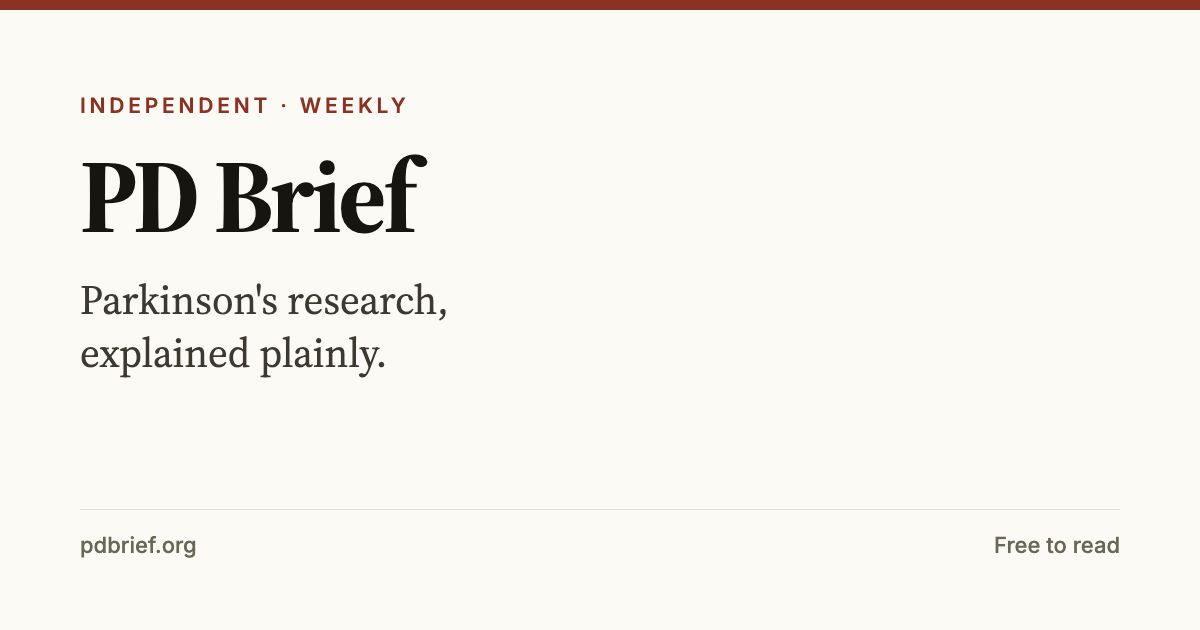
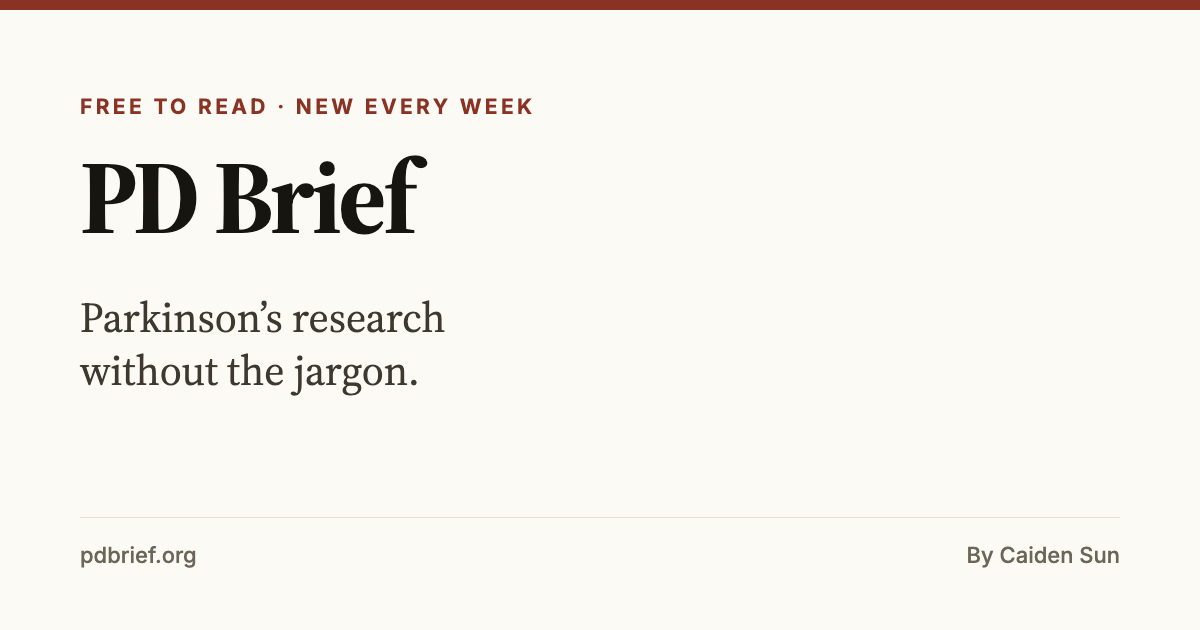
Rewrite site copy that read as machine-written
Homepage headline and introduction, footer, closing note, Ask page,
archive, glossary and 404 introductions, the About sections Caiden has
not rewritten, the study-reading guide, four glossary entries
and the clearest remaining patterns in the three issues. The social
preview image is regenerated to match the new headline.

Caiden's own About text, the Topics and Sources introductions are
unchanged.

diff --git a/content/issues/2026-08-30-exenatide-phase-3-result.md b/content/issues/2026-08-30-exenatide-phase-3-result.md
@@ -20,7 +20,7 @@ Last week's issue covered a French trial in which a diabetes drug appeared to ho
 That trial found nothing. And in May this year, the paper reporting it was placed under formal review.
 
 :::key
-In a {{phase 3 trial}} of 194 people followed for almost two years, weekly exenatide made no difference to Parkinson's symptoms compared with placebo. Separately, in May 2026 *The Lancet* attached an {{expression of concern}} to the paper after regulators inspecting one of the six hospitals found serious problems with how trials there were run. The finding and the flag are two different things, and both are worth understanding.
+In a {{phase 3 trial}} of 194 people followed for almost two years, weekly exenatide made no difference to Parkinson's symptoms compared with placebo. Separately, in May 2026 *The Lancet* attached an {{expression of concern}} to the paper after regulators inspecting one of the six hospitals found serious problems with how trials there were run. The trial result and the journal's warning are separate stories, and this issue covers both.
 :::
 
 ## The hope that led here
@@ -29,7 +29,7 @@ Exenatide had one of the better stories in Parkinson's research.
 
 A {{phase 2 trial}} published in 2017 followed about 60 people for 48 weeks and found that those on exenatide were, on average, around 4 points better on the motor scale than those on placebo. The gap also persisted 12 weeks after everyone stopped the drug. For a field that had watched candidate after candidate fail, this was a real result, and it drove a decade of follow-on work.
 
-It was still a small trial. That is what {{phase 2 trial|phase 2}} means: a signal worth chasing, not a conclusion. Chasing it properly is exactly what this new trial did.
+It was still a small trial, though, and {{phase 2 trial|phase 2}} results are meant to be followed up with bigger ones. That's what this new trial set out to do.
 
 ## What they did
 
@@ -78,7 +78,7 @@ A hypothesis that had run for a decade finally got a proper test. Negative resul
 
 The 2017 trial was not fraudulent, and the people who ran it were not careless. It was simply small. Small trials produce unstable estimates, and chance, a strong {{placebo}} response and the excitement around an early positive result can push a number far enough to look real. Then a bigger trial arrives and it is gone. This happens constantly, in every corner of medicine.
 
-The last part is the one almost nobody writes about. An inspection turned up problems. A journal attached a warning. An investigation is running, and whatever it finds will be published. It is slow and it is unglamorous, and the rest of this story makes no sense without it.
+The journal's side of this rarely gets written about. An inspection found problems, the journal attached a warning, and an investigation is now running whose findings will be published. It's slow, unglamorous work, and it's how mistakes in published research get caught.
 
 ## Reading the two trials together
 
@@ -94,21 +94,21 @@ Nobody yet knows which trial is closer to the truth, and there is more than one 
 
 It may be that assessing people on their usual medication, as the French trial did, is more forgiving, capturing a modest symptomatic effect rather than true disease modification. It may be that 12 months is short enough for a small early difference to appear and 96 weeks long enough for it to wash out. It may be that the two drugs genuinely differ in how much reaches the brain. Or the French result may simply have been a false positive, of the same kind the 2017 exenatide trial now appears to have been.
 
-Until the investigation into the exenatide paper concludes, there is one more possibility that cannot be dismissed: that the negative result is itself unreliable. It is unlikely: one site out of six, in a trial whose result was resoundingly flat. But "unlikely" is not "ruled out".
+Until the investigation into the exenatide paper concludes, there is one more possibility that cannot be dismissed: that the negative result is itself unreliable. That seems unlikely, since only one of the six sites is in question and the result was very flat, but it can't be ruled out yet.
 
 ## What this doesn't tell us
 
 Whether the exenatide result stands depends on an investigation that has not reported yet. If a large share of the data came from the site under question, the whole analysis may need redoing.
 
-It also tells us nothing about GLP-1 drugs as a class. Two drugs, two trials, two opposite answers is not a body of evidence, and anyone declaring the class dead is getting ahead of the data.
+It also tells us nothing about GLP-1 drugs as a class. Two trials of two different drugs that disagree don't add up to much evidence either way, and anyone writing off the whole class is getting ahead of the data.
 
 And it says nothing about giving either drug earlier. Both trials recruited people who already had a diagnosis, and by that stage a great deal of the damage has already been done.
 
 ## What to watch next
 
-The investigation's outcome. *The Lancet* will publish it, and it will either lift the notice, correct the paper, or retract it. That is the single most consequential thing pending in this story.
+The investigation's outcome. *The Lancet* will publish it, and it will either lift the notice, correct the paper, or retract it. That's the biggest open question in this story.
 
-Whether the lixisenatide finding replicates in a larger trial. That is now the decisive question for this line of research.
+Whether the lixisenatide finding replicates in a larger trial. That will decide where this line of research goes.
 
 And whether trial design shifts earlier. The argument that treatments must start before diagnosis, in the {{prodromal}} stage identified by tests like the {{seed amplification assay}} we covered two weeks ago, gets stronger every time a trial in diagnosed patients comes back empty.
 

diff --git a/content/issues/2026-08-16-spinal-fluid-test-parkinsons.md b/content/issues/2026-08-16-spinal-fluid-test-parkinsons.md
@@ -3,7 +3,7 @@
 title: "A spinal fluid test that spots Parkinson's before diagnosis"
 date: "2026-08-16"
 slug: "spinal-fluid-test-parkinsons"
-summary: "A test that detects misfolded alpha-synuclein in spinal fluid identified Parkinson's in 88% of people who had it, and was positive in most people who had warning signs but no diagnosis. It is the closest the field has come to a biological test for the disease."
+summary: "A test that detects misfolded alpha-synuclein in spinal fluid identified Parkinson's in 88% of people who had it, and was positive in most people who had warning signs but no diagnosis. It's the closest anyone has come to a biological test for the disease."
 topics: [Biomarkers, Diagnosis, Early Detection]
 papers:
   - title: "Assessment of heterogeneity among participants in the Parkinson's Progression Markers Initiative cohort using alpha-synuclein seed amplification: a cross-sectional study"
@@ -14,7 +14,7 @@ papers:
     access: "Free abstract"
 ---
 
-For sixty years, diagnosing {{Parkinson's disease|Parkinson's}} has come down to a doctor watching how you move. There is no blood test. There is no scan that settles it. A neurologist takes a history, examines you, watches how you respond to medication and makes a judgement. In a meaningful share of cases that judgement turns out to be wrong.
+For sixty years, diagnosing {{Parkinson's disease|Parkinson's}} has come down to a doctor watching how you move. There's no blood test for it, and no scan that settles the question. A neurologist takes a history, examines you, watches how you respond to medication and makes a judgement. In a meaningful share of cases that judgement turns out to be wrong.
 
 This study is a serious attempt to change that. Researchers ran a laboratory test on {{cerebrospinal fluid}} from more than a thousand people and asked a simple question: can we detect the disease itself, rather than the symptoms it causes?
 
@@ -26,7 +26,7 @@ The test correctly identified 87.7% of people already diagnosed with Parkinson's
 
 In most people with Parkinson's, nerve cells fill with clumps of a misfolded protein called {{alpha-synuclein}}. Until recently, the only way to confirm those clumps were present was to examine the brain after death.
 
-A newer laboratory technique, the {{seed amplification assay}}, offers a way around that. If you took a PCR test during COVID, the idea is similar. You take a sample of a person's spinal fluid, add a supply of normal alpha-synuclein protein, and wait. If even a trace of the misfolded form is present in the sample, it acts as a seed: it converts the added protein into the same wrong shape, over and over, until the clumping becomes detectable by an instrument. A tiny signal is amplified into an unmistakable one.
+A newer laboratory technique, the {{seed amplification assay}}, offers a way around that. If you took a PCR test during COVID, the idea is similar. You take a sample of a person's spinal fluid, add a supply of normal alpha-synuclein protein, and wait. If even a trace of the misfolded form is present in the sample, it acts as a seed: it converts the added protein into the same wrong shape, over and over, until there's enough clumping for an instrument to detect.
 
 The question was whether this worked reliably enough, in enough people, to be useful.
 
@@ -78,7 +78,7 @@ This is not yet a test you can ask for at a routine appointment, and it requires
 
 ## What this doesn't tell us
 
-This was a {{cohort study}} carried out at a single point in time, not a trial. Several limits are worth holding onto.
+This was a {{cohort study}} carried out at a single point in time, not a trial, and that comes with limits.
 
 It does not measure severity or predict speed. A positive result says misfolded protein is present. It does not say how fast anyone will progress, or how badly they will be affected.
 
@@ -90,13 +90,11 @@ Finally, nobody has shown it works outside a research setting yet. The people ru
 
 ## What to watch next
 
-Three threads are worth following.
+Keep an eye on the move away from lumbar punctures. Groups are working on versions of this assay that read skin biopsies, blood, and nasal swabs. A blood-based version would change the picture entirely.
 
-The first is the move away from lumbar punctures. Groups are working on versions of this assay that read skin biopsies, blood, and nasal swabs. A blood-based version would change the picture entirely.
+Then there's the follow-up. The prodromal participants who tested positive are being tracked. What happens to them over the next five to ten years is the real test of whether this predicts anything.
 
-The second is longitudinal follow-up. The prodromal participants who tested positive are being tracked. What happens to them over the next five to ten years is the real test of whether this predicts anything.
-
-The third is how trials adapt. Expect new studies that require a positive assay to enrol, and expect some earlier failed trials to be reconsidered in light of who was actually in them.
+Finally, watch how trials change. Expect new studies that require a positive assay to enrol, and expect some earlier failed trials to be reconsidered in light of who was actually in them.
 
 :::plain
 A laboratory test can now detect the protein damage behind Parkinson's in a sample of spinal fluid, including in people who have not yet been diagnosed. It does not treat anything, and it is not part of routine care. But finding the disease early is the thing every future treatment will depend on, and this is the first real step towards it.

diff --git a/content/pages/about.md b/content/pages/about.md
@@ -24,37 +24,26 @@ I'm not a doctor or a researcher. Each issue links to the paper it's based on, s
 
 ## Who this is for
 
-Anyone who wants to follow Parkinson's research without a medical degree:
-
-- **People living with Parkinson's**, who have a direct stake in where the research is going
-- **Family members and caregivers**, who often end up doing the reading
-- **Students and early researchers** looking for a way into an unfamiliar literature
-- **Clinicians and allied health professionals** who want a quick orientation outside their specialty
-- **Anyone curious** about how medical knowledge actually accumulates
+PD Brief is for anyone who wants to follow Parkinson's research without a medical degree. That includes people living with Parkinson's, and the family members and caregivers who often end up doing the reading for them. It's also for students who are curious about the field and don't know where to start.
 
 ## How studies are chosen
 
-There are far more Parkinson's papers published each week than could be covered. Selection favours studies that:
+Far more Parkinson's papers come out each week than we could ever cover, so we look for studies that report something new, come from peer-reviewed journals, and are big or careful enough that the result is likely to hold up. If we ever write about a preprint, a paper that hasn't been peer reviewed yet, we'll say so clearly.
 
-- report an original finding rather than restating existing knowledge
-- come from peer-reviewed journals, with preprints clearly labelled when included
-- would genuinely change how someone understands the field
-- are large or rigorous enough that the finding is likely to hold
-
-Negative results are covered deliberately. A well-run trial showing that a promising treatment does not work is as important as one showing that it does, and it is far less likely to be reported anywhere else.
+We also cover trials that didn't work. A well-run trial showing that a promising treatment fails is just as useful as one showing that it succeeds, and it gets far less attention.
 
 ## Editorial policy {#policy}
 
-**Independence.** PD Brief is not affiliated with any journal, university, pharmaceutical company, patient organisation, or funder. Nobody pays for coverage. Nobody sees an issue before it is published.
+**Independence.** PD Brief isn't affiliated with any journal, university, drug company, patient organisation or funder, and nobody pays for coverage.
 
-**Honesty about uncertainty.** Most research findings are provisional. Issues say how confident anyone should be, and every issue includes a section on what the study does not establish.
+**Honesty about uncertainty.** Most research findings are provisional. Every issue says how much weight a result can bear and has a section on what the study doesn't show.
 
-**No medical advice.** PD Brief explains research. It does not recommend treatments, and nothing in it should be used to make decisions about anyone's care. Those conversations belong with your neurologist.
+**No medical advice.** PD Brief explains research. It doesn't recommend treatments, and nothing here should be used to make decisions about anyone's care. Those conversations belong with your neurologist.
 
-**Corrections.** Mistakes will happen. When one is found, the issue is corrected and the correction is noted at the bottom of that issue rather than edited away without a word.
+**Corrections.** Mistakes will happen. When we find one, we fix it and add a note at the bottom of the issue saying what changed.
 
-**Credit.** Every issue links to the original paper, with authors, journal, and DOI. The findings belong to the researchers who did the work. This publication only translates them.
+**Credit.** Every issue links to the original paper, with its authors, journal and DOI. The findings belong to the researchers who did the work.
 
 ## Get in touch
 
-Corrections, questions, and suggestions for studies to cover are all welcome. The quickest way to reach us is the [questions page](/ask/), which is read by the editor. Corrections are published on the issue they concern.
+Questions, corrections and suggestions for studies to cover are all welcome. The easiest way to reach us is the [questions page](/ask/), and every message gets read.

diff --git a/content/pages/how-we-read-a-study.md b/content/pages/how-we-read-a-study.md
@@ -4,11 +4,11 @@ slug: how-we-read-a-study
 description: "A short guide to judging medical research for yourself: the questions that separate a strong finding from a fragile one."
 ---
 
-You do not need a science degree to tell a strong study from a weak one. You need a handful of questions, and the willingness to ask them before getting excited. This is the checklist behind every issue of PD Brief, written out so you can apply it to anything you read.
+You don't need a science degree to tell a strong study from a weak one. A few questions, asked before you get excited, go a long way. These are the ones we ask about every study PD Brief covers, and you can use them on anything you read.
 
 ## 1. How many people were in it?
 
-Size is the single most useful signal available to a non-specialist. A study of 20 people can suggest an idea. It cannot establish one. Small studies produce unstable results: chance alone will hand a few of them a striking finding that vanishes when someone tries again with 200 participants.
+Size is the most useful thing a non-specialist can check. A study of 20 people can suggest an idea, but it can't prove one. Small studies are unstable, and by chance alone a few of them will turn up a striking result that disappears when someone tries again with 200 people.
 
 As a rough guide for treatment trials, under 50 people is preliminary. Fifty to 200 deserves attention. Several hundred, followed over years, is the kind of evidence that changes practice.
 
@@ -22,15 +22,15 @@ The strongest design is the {{randomised controlled trial}}: assign people to tr
 
 ## 3. Did anyone know who was getting what?
 
-If participants know they are on the real drug, they tend to report feeling better. If the doctor scoring their symptoms knows, they tend to score more generously. Neither requires dishonesty; it is how human judgement works.
+If participants know they're on the real drug, they tend to report feeling better. If the doctor scoring their symptoms knows, they tend to score more generously. Nobody has to be dishonest for this to happen. It's just how human judgement works.
 
 {{blinding|Double-blind}} means neither side knows. It is the standard for good reason.
 
 ## 4. Was it in people, or in mice?
 
-A great deal of exciting Parkinson's coverage describes work in mice, rats, or cells in a dish. This research is essential, because it is where ideas come from, but the failure rate on the way to humans is brutal. Many treatments have cured Parkinson's-like conditions in rodents. None of them has cured Parkinson's.
+A lot of exciting Parkinson's coverage is about work in mice, rats or cells in a dish. That research matters, because it's where ideas come from, but most of those ideas fail once they're tried in people. Plenty of treatments have cured Parkinson's-like conditions in rodents. None of them has cured Parkinson's.
 
-When you read a hopeful headline, check what the subjects were. It is often the whole story.
+When you see a hopeful headline, check who or what was actually studied. That alone often explains it.
 
 ## 5. Did it measure what actually matters?
 
@@ -60,7 +60,7 @@ Good papers state their funding and conflicts of interest openly. The informatio
 
 A single study is a data point. Science advances when independent groups reproduce a finding. The first report of anything, however striking, is provisional by definition.
 
-This is the reason PD Brief keeps an [archive](/archive/) rather than only publishing the newest thing: watching a claim get confirmed, qualified, or overturned across several years is where the real understanding lives.
+That's why PD Brief keeps an [archive](/archive/) instead of only showing the newest issue. Watching a claim get confirmed, narrowed down or overturned over several years teaches you more than any single paper.
 
 :::key
 How many people were in it, was there a randomised comparison group, and was the effect big enough that anyone would notice? Coverage that cannot answer those three has not really told you anything.

diff --git a/content/issues/2026-08-23-lixisenatide-diabetes-drug.md b/content/issues/2026-08-23-lixisenatide-diabetes-drug.md
@@ -19,7 +19,7 @@ Every medicine currently prescribed for Parkinson's treats the symptoms. {{Levod
 This trial tested an unlikely candidate: a drug developed for type 2 diabetes.
 
 :::key
-After 12 months, people taking lixisenatide showed essentially no worsening in their motor symptoms (a change of −0.04 points), while the placebo group declined by 3.04 points on the standard rating scale. It is a genuine signal. It is also a small one, in a modest trial, bought at the cost of considerable nausea.
+After 12 months, people taking lixisenatide showed essentially no worsening in their motor symptoms (a change of −0.04 points), while the placebo group declined by 3.04 points on the standard rating scale. The signal looks real, but it's small, the trial was modest, and a lot of people felt sick on the drug.
 :::
 
 ## Why a diabetes drug?
@@ -52,15 +52,15 @@ The difference of 3.08 points was {{statistical significance|statistically signi
 
 After the two-month washout, when nobody had taken the study drug for eight weeks, the gap was still visible: motor scores off medication were 17.7 in the lixisenatide group against 20.6 on placebo. Eight weeks with no drug in anyone's system, and the two groups still had not converged. That hints at something lasting, rather than symptoms being masked while the drug was circulating. But the {{confidence interval}} on that washout difference runs from 0.1 to 5.8. It only just excludes zero, and a range that wide is consistent with an effect that is real and large, or real and negligible.
 
-The side effects were not incidental. Nearly half the treatment group experienced nausea against 12% on placebo, and 13% vomited against 3%. Some participants needed their dose reduced.
+The side effects were a real problem. Nearly half the treatment group experienced nausea against 12% on placebo, and 13% vomited against 3%. Some participants needed their dose reduced.
 
 ## Why it matters
 
 A 3-point difference on a scale that runs past 100 is not something a person would necessarily feel after one year. Its importance is as a proof of principle.
 
-If the effect is real and keeps building, three points a year adds up to fifteen over five years, well past the point where patients notice a difference. The reason to take this seriously is not the size of the gap at 12 months but the possibility that the underlying process was slowed.
+If the effect is real and keeps building, three points a year adds up to fifteen over five years, well past the point where patients notice a difference. What makes it worth taking seriously is the chance that the disease itself slowed down.
 
-There is also a strategic argument. GLP-1 drugs are manufactured at enormous scale and are already in the world's pharmacies. A repurposed treatment does not need the decade a novel compound requires.
+There's a practical reason for interest too. GLP-1 drugs are manufactured at enormous scale and are already in the world's pharmacies. A repurposed treatment does not need the decade a novel compound requires.
 
 :::caution
 Nothing here supports asking your doctor for a GLP-1 drug to treat Parkinson's. This was one trial, of one drug in the class, in 156 people, for one year. GLP-1 medicines carry real risks and side effects, and taking one outside a trial for this purpose is not supported by the evidence.

diff --git a/content/glossary.md b/content/glossary.md
@@ -12,7 +12,7 @@ Something measurable in the body, whether in blood, spinal fluid, skin or on a s
 
 ## Blinding
 
-Keeping people in a trial from knowing who got the real treatment and who got the placebo. In a double-blind trial neither the participants nor the doctors assessing them know. This matters enormously in Parkinson's, because expectation alone can genuinely improve movement for a while.
+Keeping people in a trial from knowing who got the real treatment and who got the placebo. In a double-blind trial neither the participants nor the doctors assessing them know. This matters a lot in Parkinson's, because simply expecting to improve can make movement better for a while.
 
 ## Cerebrospinal fluid
 
@@ -92,7 +92,7 @@ The process where independent experts examine a study before a journal publishes
 
 ## Phase 2 trial
 
-A mid-stage trial, usually a few dozen to a few hundred people, designed to look for early signs that a treatment works and to refine the dose. Encouraging phase 2 results are genuinely common; most of them do not survive a phase 3 trial.
+A mid-stage trial, usually a few dozen to a few hundred people, designed to look for early signs that a treatment works and to refine the dose. Encouraging phase 2 results are common, and most of them don't survive a phase 3 trial.
 
 ## Phase 3 trial
 
@@ -116,7 +116,7 @@ The stage before a disease is diagnosable, when subtle changes have begun but th
 
 ## P-value
 
-A number describing how likely it is that a result this striking could have appeared by chance alone if the treatment did nothing. Below 0.05 is the traditional threshold for calling a result statistically significant, but that cut-off is a convention, not a law of nature.
+A number describing how likely it is that a result this striking could have appeared by chance alone if the treatment did nothing. Below 0.05 is the traditional threshold for calling a result statistically significant, though that cut-off is only a convention.
 
 ## Randomised controlled trial
 
@@ -132,7 +132,7 @@ A laboratory test that takes a sample from a person, adds normal alpha-synuclein
 
 ## Statistical significance
 
-A finding is called statistically significant when it is unlikely to have arisen by chance. It says nothing about whether the finding is large, useful, or meaningful to a patient — a common and consequential misunderstanding.
+A finding is called statistically significant when it is unlikely to have arisen by chance. It says nothing about whether the finding is large, useful or meaningful to a patient, and the two ideas get mixed up all the time.
 
 ## Substantia nigra
 
